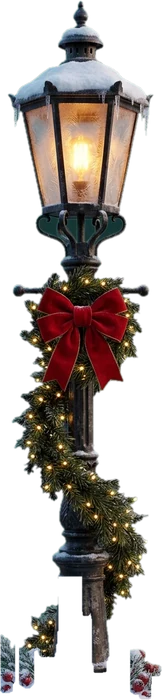
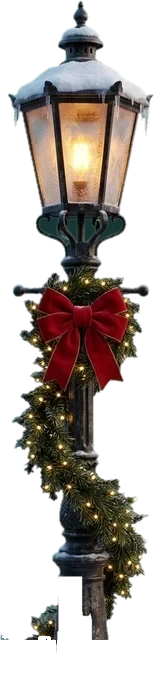
Lamp foot: only the iron post meets the snow

Changed region(s): [[0.0, 0.9, 0.3704, 0.99], [0.8025, 0.93, 1.0, 1.0], [0.5556, 0.9, 0.679, 0.96]]

diff --git a/game.js b/game.js
@@ -23,7 +23,7 @@
     if (s.userData.x) s.scale.set(w, s.userData.h, w); else s.scale.set(w, s.userData.h, 1); if (s.userData.onfit && !s.userData.built) { s.userData.built = 1; s.userData.onfit(w, s.userData.h, im); }
     if (s.userData.mound && !s.userData.m) { const m = new T.Mesh(moundGeo, snowMat); m.scale.set(w * 1.15, 1, w * .8); m.position.set(s.position.x, .1, s.position.z); m.renderOrder = -1; scene.add(m); s.userData.m = m; } };
   function prop(n, h, x, z, extra, mound = true) {
-    if (!mats[n]) { users[n] = []; const t = TL.load('img/g/' + n + '.webp?v=4', () => users[n].forEach(fit)); t.encoding = T.sRGBEncoding; t.anisotropy = 4; mats[n] = new T.MeshBasicMaterial({ map: t, transparent: true, alphaTest: .04, side: T.DoubleSide }); }
+    if (!mats[n]) { users[n] = []; const t = TL.load('img/g/' + n + '.webp?v=5', () => users[n].forEach(fit)); t.encoding = T.sRGBEncoding; t.anisotropy = 4; mats[n] = new T.MeshBasicMaterial({ map: t, transparent: true, alphaTest: .04, side: T.DoubleSide }); }
     const s = new T.Mesh(CARD, extra ? Object.assign(mats[n].clone(), extra) : mats[n]); s.userData.h = h; s.userData.mound = mound; s.position.set(x, 0, z); s.scale.set(0, 0, 0); scene.add(s); users[n].push(s); cards.push(s); fit(s); return s;
   }
   function xprop(n, h, x, z) { // three crossed cards: reads as a full tree from every side

diff --git a/app.js b/app.js
@@ -285,7 +285,7 @@
   const arm = () => { if (soundOn && wasTruck && snd.paused) snd.play().catch(() => { }); };
   ['pointerdown', 'keydown', 'touchend', 'wheel'].forEach(e => addEventListener(e, arm, { passive: true }));
   window.__site = { soundOn: () => soundOn };
-  $('#playbtn').addEventListener('click', () => { if (snd) snd.pause(); if (window.__play) return window.__play.open(); const sc = document.createElement('script'); sc.src = 'game.js?v=36'; document.body.appendChild(sc); });
+  $('#playbtn').addEventListener('click', () => { if (snd) snd.pause(); if (window.__play) return window.__play.open(); const sc = document.createElement('script'); sc.src = 'game.js?v=37'; document.body.appendChild(sc); });
   sbtn.addEventListener('click', () => { arm(); soundOn = !soundOn; sbtn.classList.toggle('on', soundOn); sbtn.setAttribute('aria-pressed', soundOn); });
 
   /* ---------- game: join seven stars into the Great Bear ---------- */

diff --git a/index.html b/index.html
@@ -6,7 +6,7 @@
 <meta name="robots" content="noindex">
 <title>კოკა-კოლას ჯადოსნური სამყარო | კოკა-კოლა საქართველო</title>
 <link rel="preload" as="image" href="img/bg-night.jpg">
-<link rel="stylesheet" href="style.css?v=1792246779">
+<link rel="stylesheet" href="style.css?v=1792247390">
 </head>
 <body class="g1">
 
@@ -163,6 +163,6 @@
 </footer>
 
 <script src="https://cdnjs.cloudflare.com/ajax/libs/three.js/r128/three.min.js"></script>
-<script src="app.js?v=1792246779"></script>
+<script src="app.js?v=1792247390"></script>
 </body>
 </html>
